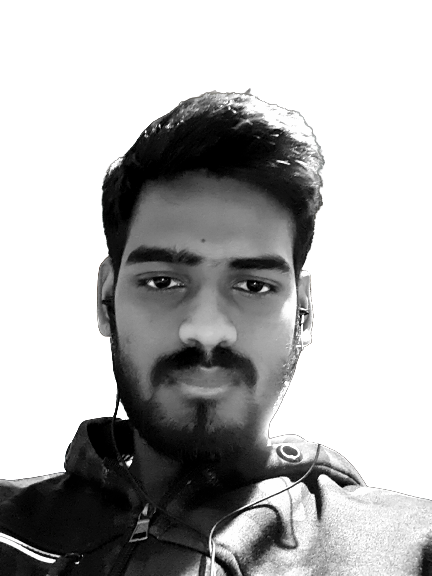
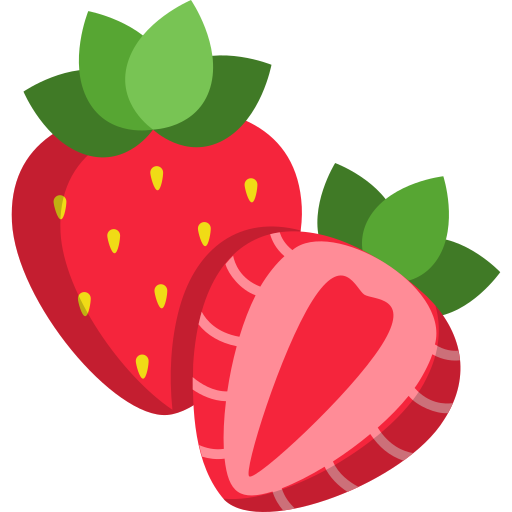
some code modify

diff --git a/cdash.php b/cdash.php
@@ -11,6 +11,22 @@ include_once("cnav.php");
 
 ?>
 
+<!-- search -->
+<div class="container mb-5">
+    <div class="d-flex justify-content-between">
+        <select class="form-select" aria-label="Default select example" id="stype">
+            <option selected>Select Service Type (ALL)</option>
+            <option value="Painter">Painter</option>
+            <option value="Electrician">Electrician</option>
+            <option value="Carpenter">Carpenter</option>
+            <option value="Gardener">Gardener</option>
+            <option value="Plumber">Plumber</option>
+            <option value="House cleaner">House cleaner</option>
+        </select>
+        <button type="button" class="btn btn-primary mx-2" onclick="searchService()">Search</button>
+    </div>
+</div>
+
 <!-- Create Work -->
 <div class="modal fade" id="crtJobs" tabindex="-1" aria-labelledby="exampleModalLabel" aria-hidden="true">
     <div class="modal-dialog modal-fullscreen">
@@ -21,7 +37,7 @@ include_once("cnav.php");
             </div>
             <div class="modal-body">
                 <div class="mb-3">
-                    <select class="form-select" aria-label="Default select example" id="jobCat" name="jobCat" onclick="jbtnact()" >
+                    <select class="form-select" aria-label="Default select example" id="jobCat" name="jobCat" onclick="jbtnact()">
                         <option selected disabled>Select Work Category</option>
                         <option value="Painter">Painter</option>
                         <option value="Electrician">Electrician</option>
@@ -73,7 +89,7 @@ include_once("cnav.php");
                 </table>
             </div>
             <div class="modal-footer">
-                
+
             </div>
         </div>
     </div>
@@ -81,20 +97,20 @@ include_once("cnav.php");
 
 <!-- Edit Worklist -->
 <div class="modal fade" id="editWorkList" tabindex="-1" aria-labelledby="exampleModalLabel" aria-hidden="true">
-  <div class="modal-dialog modal-fullscreen">
-    <form class="modal-content" action="updateWorkList.php" method="POST">
-      <div class="modal-header">
-        <h5 class="modal-title" id="exampleModalLabel">Edit Worklist</h5>
-        <button type="button" class="btn-close" data-bs-dismiss="modal" aria-label="Close"></button>
-      </div>
-      <div class="modal-body" id="loadWorkList">
-        ...
-      </div>
-      <div class="modal-footer">
-        <button type="submit" class="btn btn-primary" data-bs-dismiss="modal">Update</button>
-      </div>
-    </form>
-  </div>
+    <div class="modal-dialog modal-fullscreen">
+        <form class="modal-content" action="updateWorkList.php" method="POST">
+            <div class="modal-header">
+                <h5 class="modal-title" id="exampleModalLabel">Edit Worklist</h5>
+                <button type="button" class="btn-close" data-bs-dismiss="modal" aria-label="Close"></button>
+            </div>
+            <div class="modal-body" id="loadWorkList">
+                ...
+            </div>
+            <div class="modal-footer">
+                <button type="submit" class="btn btn-primary" data-bs-dismiss="modal">Update</button>
+            </div>
+        </form>
+    </div>
 </div>
 
 <!-- chat list  -->
@@ -167,7 +183,7 @@ include_once("cnav.php");
 
 <!-- service provider card -->
 <div class="container">
-    <div class="row justify-content-evenly">
+    <div class="row justify-content-evenly" id="usCard">
         <?php
 
         include_once("db_conn.php");
@@ -183,7 +199,7 @@ include_once("cnav.php");
 
             $str = <<<idfr
             <div class='card text-center border-3 rounded-3 m-2' style='width: 18rem;'>
-            <img src='$pfpic' class='card-img-top w-50 h-50 rounded-circle mx-auto mt-3 d-block' alt='avatar'>
+            <img src='$pfpic' class='card-img-top w-50 h-50 mx-auto mt-3 d-block' alt='avatar' style="clip-path:circle(40%)">
             <hr>
             <div class='card-body'>
             <h5 class='card-title'>$snm</h5>
@@ -256,21 +272,21 @@ include_once("cnav.php");
     setInterval(workList, 2000);
 
     function deleteWorkList(jid) {
-        if(confirm("Are you sure you want to delete?")){
+        if (confirm("Are you sure you want to delete?")) {
             var xhttp = new XMLHttpRequest();
-            xhttp.open("GET", "deleteWorkList.php?jid="+jid, true);
+            xhttp.open("GET", "deleteWorkList.php?jid=" + jid, true);
             xhttp.send();
         }
     }
 
-    function editWorkList(jid){
+    function editWorkList(jid) {
         var xhttp = new XMLHttpRequest();
         xhttp.onreadystatechange = function() {
-        if (this.readyState == 4 && this.status == 200) {
-            document.getElementById("loadWorkList").innerHTML = this.responseText;
-        }
+            if (this.readyState == 4 && this.status == 200) {
+                document.getElementById("loadWorkList").innerHTML = this.responseText;
+            }
         };
-        xhttp.open("GET", "getWorkList.php?jid="+jid, true);
+        xhttp.open("GET", "getWorkList.php?jid=" + jid, true);
         xhttp.send();
     }
 
@@ -292,6 +308,18 @@ include_once("cnav.php");
     function loagImg(event) {
         var image = document.getElementById('prfimg');
         image.src = URL.createObjectURL(event.target.files[0]);
+    }
+
+    function searchService() {
+        let stype = document.getElementById("stype").value;
+        var xhttp = new XMLHttpRequest();
+        xhttp.onreadystatechange = function() {
+            if (this.readyState == 4 && this.status == 200) {
+                document.getElementById("usCard").innerHTML = this.responseText;
+            }
+        };
+        xhttp.open("GET", "csearchService.php?stype=" + stype, true);
+        xhttp.send();
     }
 </script>
 

diff --git a/cnav.php b/cnav.php
@@ -1,6 +1,6 @@
 <nav class="navbar navbar-expand-lg navbar-dark bg-dark mb-5">
   <div class="container-fluid">
-    <a class="navbar-brand" href="#"><img src="./gnt_img/gntlogo.jpeg" alt="Gnt logo" width="32px" height="32px"></a>
+    <a class="navbar-brand" href="index.php"><img src="./gnt_img/gntlogo.jpeg" alt="Gnt logo" width="32px" height="32px"></a>
     <button class="navbar-toggler" type="button" data-bs-toggle="collapse" data-bs-target="#navbarSupportedContent" aria-controls="navbarSupportedContent" aria-expanded="false" aria-label="Toggle navigation">
       <span class="navbar-toggler-icon"></span>
     </button>
@@ -14,14 +14,6 @@
         </button>
       </ul>
       <div class="d-flex">
-        <div>
-          <!-- Button trigger modal search -->
-          <button type="button" class="btn btn-primary" data-bs-toggle="modal" data-bs-target="#search">
-            <svg xmlns="http://www.w3.org/2000/svg" width="32" height="32" fill="currentColor" class="bi bi-search" viewBox="0 0 16 16">
-              <path d="M11.742 10.344a6.5 6.5 0 1 0-1.397 1.398h-.001c.03.04.062.078.098.115l3.85 3.85a1 1 0 0 0 1.415-1.414l-3.85-3.85a1.007 1.007 0 0 0-.115-.1zM12 6.5a5.5 5.5 0 1 1-11 0 5.5 5.5 0 0 1 11 0z" />
-            </svg>
-          </button>
-        </div>
         <div class="px-3">
           <button type="button" class="btn btn-primary" data-bs-toggle="offcanvas" data-bs-target="#offcanvasRight" aria-controls="offcanvasRight">
             <svg xmlns="http://www.w3.org/2000/svg" width="32" height="32" fill="currentColor" class="bi bi-chat-text" viewBox="0 0 16 16">
@@ -41,22 +33,6 @@
   </div>
 </nav>
 
-<!-- Modal search -->
-<div class="modal fade" id="search" tabindex="-1" aria-labelledby="exampleModalLabel" aria-hidden="true">
-  <div class="modal-dialog">
-    <div class="modal-content">
-      <div class="modal-body">
-        <form class="d-flex justify-content-between">
-          <input class="form-control" list="datalistOptions" id="exampleDataList" placeholder="Type to search...">
-          <datalist id="datalistOptions">
-          </datalist>
-          <button type="submit" class="btn btn-primary mx-2" data-bs-dismiss="modal">Search</button>
-          <button type="button" class="btn btn-secondary" data-bs-dismiss="modal">Close</button>
-        </form>
-      </div>
-    </div>
-  </div>
-</div>
 
 <!-- Modal login -->
 <div class="modal fade" id="login" tabindex="-1" aria-labelledby="exampleModalLabel" aria-hidden="true">

diff --git a/csearchService.php b/csearchService.php
@@ -1,0 +1,38 @@
+<?php
+
+include("db_conn.php");
+
+$stype = $_GET['stype'];
+
+if(in_array($stype,["Painter","Electrician","Carpenter","Gardener","Plumber","House cleaner"])){
+    $sqry = "select user.id,name,s_type,pfpic from user,service where user.id=service.id and utype='service provider' and s_type='$stype';";
+}else{
+    $sqry = "select service.id,name,s_type,pfpic from user,service where utype='service provider' and user.id=service.id limit 6;";
+}
+
+$spres = $conn->query($sqry);
+
+while ($val = $spres->fetch_assoc()) {
+    $snm = $val['name'];
+    $stp = $val['s_type'];
+    $sid = $val['id'];
+    $pfpic = $val['pfpic'];
+
+    $str = <<<idfr
+    <div class='card text-center border-3 rounded-3 m-2' style='width: 18rem;'>
+    <img src='$pfpic' class='card-img-top w-50 h-50 mx-auto mt-3 d-block' alt='avatar' style="clip-path:circle(40%)">
+    <hr>
+    <div class='card-body'>
+    <h5 class='card-title'>$snm</h5>
+    <p class='card-text'>$stp</p>
+    <a href='#' class='btn btn-primary mx-auto cmbtn' data-bs-toggle='offcanvas' onclick='loadMsg($sid,"$snm")' data-bs-target='#cmsg' aria-controls='offcanvasRight' > Message </a>
+    </div>
+    </div>
+    idfr;
+
+    echo $str;
+}
+
+
+
+?>

diff --git a/footer.php b/footer.php
@@ -1,3 +1,15 @@
+<div class="bg-dark mt-5 py-5">
+    <div class="text-white text-center mb-3">
+        Copyright 2022 by GNT Service. All Rights Reserved.
+    </div>
+    <div class="d-flex justify-content-center px-3">
+        <div><a href="#" class="link-secondary mx-1" target="_blank">Terms and Conditions</a></div>
+        <div><a href="#" class="link-secondary mx-1" target="_blank">Privacy Policy</a></div>
+        <div><a href="#" class="link-secondary mx-1" target="_blank">Help and Support</a></div>
+        <div><a href="#" class="link-secondary mx-1" target="_blank">Contact Us</a></div>
+    </div>
+</div>
+
 <script src="https://cdn.jsdelivr.net/npm/@popperjs/core@2.9.2/dist/umd/popper.min.js"></script>
 <script src="https://cdn.jsdelivr.net/npm/bootstrap@5.0.2/dist/js/bootstrap.bundle.min.js" integrity="sha384-MrcW6ZMFYlzcLA8Nl+NtUVF0sA7MsXsP1UyJoMp4YLEuNSfAP+JcXn/tWtIaxVXM" crossorigin="anonymous"></script>
 

diff --git a/snav.php b/snav.php
@@ -1,6 +1,6 @@
 <nav class="navbar navbar-expand-lg navbar-dark bg-dark mb-5">
     <div class="container-fluid">
-        <a class="navbar-brand" href="#"><img src="./gnt_img/gntlogo.jpeg" alt="Gnt logo" width="32px" height="32px"></a>
+        <a class="navbar-brand" href="index.php"><img src="./gnt_img/gntlogo.jpeg" alt="Gnt logo" width="32px" height="32px"></a>
         <button class="navbar-toggler" type="button" data-bs-toggle="collapse" data-bs-target="#navbarSupportedContent" aria-controls="navbarSupportedContent" aria-expanded="false" aria-label="Toggle navigation">
             <span class="navbar-toggler-icon"></span>
         </button>

diff --git a/getWorkCard.php b/getWorkCard.php
@@ -18,7 +18,7 @@
         if ($wdone == 0 && $sid2 == 0) {
           $str2 = <<<ccard
           <div class="card text-center border-3 rounded-3 m-2" style="width: 18rem;">
-          <img src="$pfpic" class="card-img-top rounded-circle w-50 h-50 mx-auto d-block mt-3 " alt="avatar">
+          <img src="$pfpic" class="card-img-top w-50 h-50 mx-auto d-block mt-3 " alt="avatar"  style="clip-path:circle(40%)">
           <hr>
           <div class="card-body">
             <h5 class="card-title">$cnm2</h5>

diff --git a/getmsg.php b/getmsg.php
@@ -16,7 +16,7 @@ while($val = $res->fetch_assoc()){
 
     if($dirtn1 == $dirtn2){
         $str=<<<idfr
-        <div class="align-self-end bg-primary text-white px-2 mb-1 rounded-pill" >$msg</div>
+        <div class="align-self-end bg-primary text-white px-2 mb-1 rounded-pill me-1" >$msg</div>
         idfr;
     }
     else

diff --git a/index.php b/index.php
@@ -35,6 +35,18 @@
             }
         }
     }
+
+    session_start();
+
+    if ($_SESSION["utype"] == "customer") {
+        header("location:cdash.php");
+    }
+
+    if ($_SESSION["utype"] == "service provider") {
+        header("location:sdash.php");
+    }
+
+
     ?>
 
     <?php include_once("header.php") ?>
